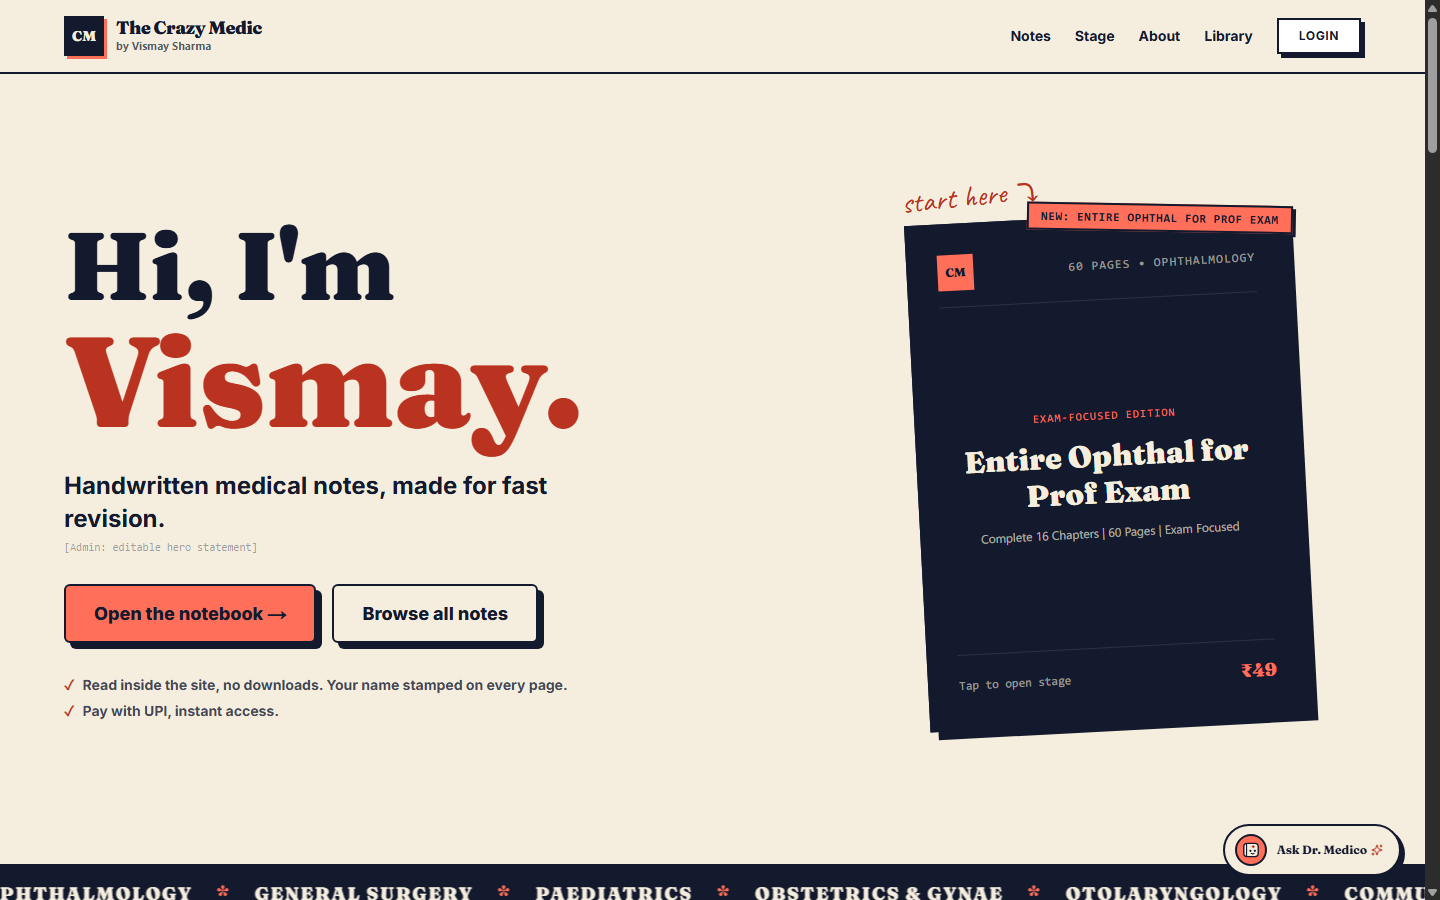
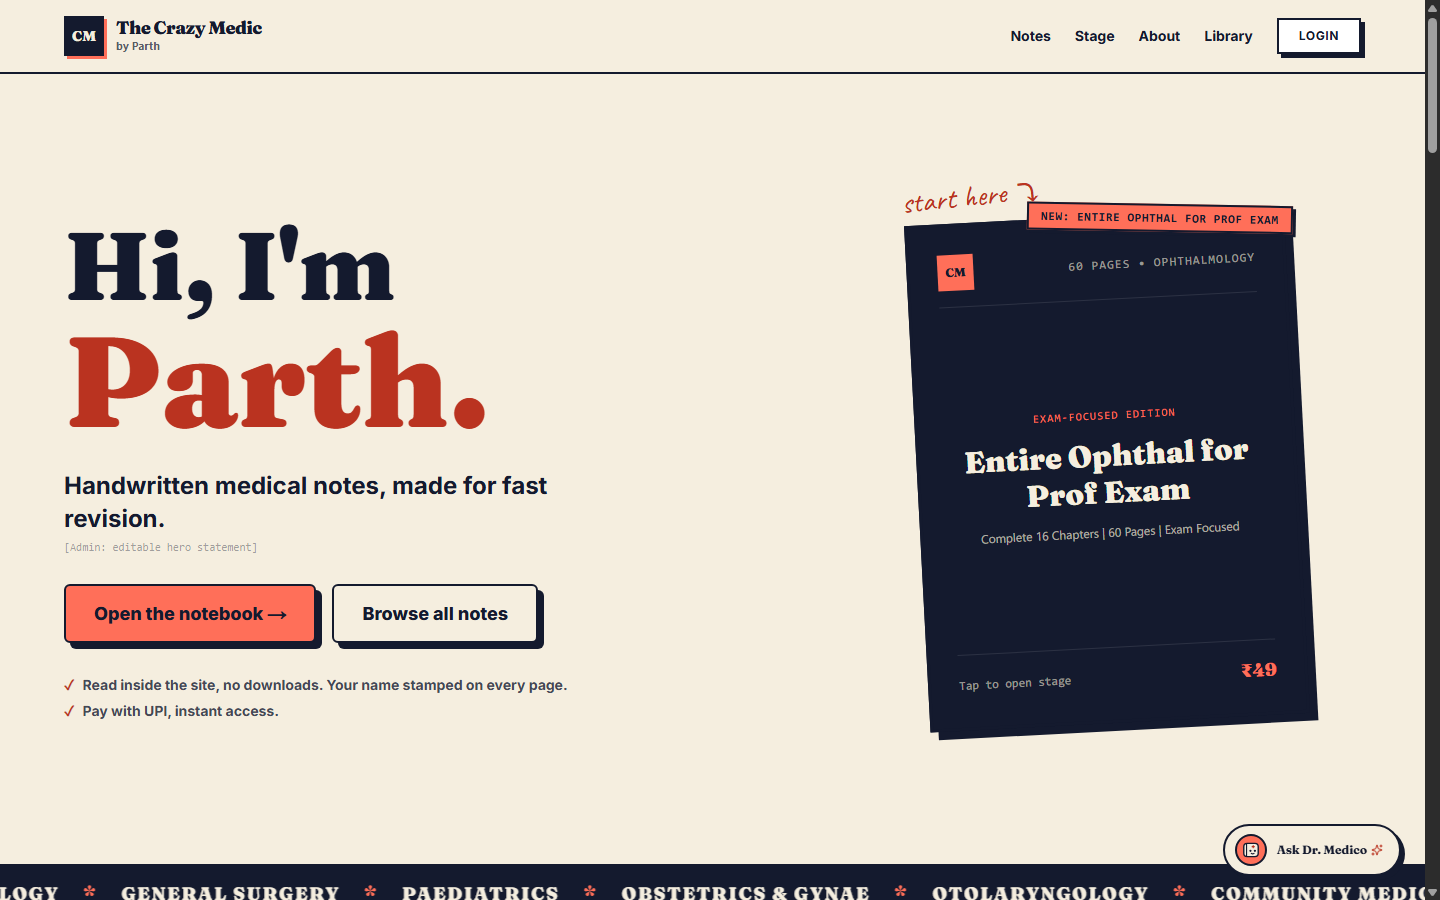
chore: update creator attribution across app, docs, and screenshots to Parth

Changed region(s): [[0.0, 0.9644, 1.0, 1.0], [0.0312, 0.3733, 0.4062, 0.5289], [0.0938, 0.0311, 0.1562, 0.0622]]

diff --git a/src/components/intro/intro-page-client.tsx b/src/components/intro/intro-page-client.tsx
@@ -119,7 +119,7 @@ export function IntroPageClient({ user: serverUser, initialTransition = false }:
                 The Crazy Medic
               </span>
               <span className="text-[11px] font-sans text-[var(--navy)]/70 block -mt-0.5 font-bold">
-                by Vismay Sharma
+                by Parth
               </span>
             </div>
           </Link>
@@ -229,7 +229,7 @@ export function IntroPageClient({ user: serverUser, initialTransition = false }:
                 onClick={() => setMobileMenuOpen(false)}
                 className="hover:text-[var(--coral)] transition"
               >
-                About Vismay
+                About Parth
               </Link>
               <Link
                 href={user ? "/profile" : "/login"}
@@ -241,7 +241,7 @@ export function IntroPageClient({ user: serverUser, initialTransition = false }:
             </div>
 
             <div className="pt-4 border-t-2 border-white/20 text-xs font-mono text-[var(--cream)]/60 flex items-center justify-between">
-              <span>by Vismay Sharma</span>
+              <span>by Parth</span>
               <span>© The Crazy Medic</span>
             </div>
           </motion.div>
@@ -273,7 +273,7 @@ export function IntroPageClient({ user: serverUser, initialTransition = false }:
                       Hi, I&apos;m
                     </span>
                     <span className="font-serif font-black text-6xl sm:text-8xl lg:text-9xl text-[var(--coral-ink)] block mt-1">
-                      Vismay.
+                      Parth.
                     </span>
                   </h1>
                 )}
@@ -623,7 +623,7 @@ export function IntroPageClient({ user: serverUser, initialTransition = false }:
         </Container>
       </section>
 
-      {/* ================= 7. ABOUT VISMAY ================= */}
+      {/* ================= 7. ABOUT PARTH ================= */}
       <section className="py-16 sm:py-24 border-b-2 border-[var(--navy)] bg-[#EADFC9]/30">
         <Container>
           <div className="grid grid-cols-1 lg:grid-cols-12 gap-10 lg:gap-14 items-center">
@@ -635,7 +635,7 @@ export function IntroPageClient({ user: serverUser, initialTransition = false }:
                   <div className="w-16 h-16 rounded-full bg-[var(--coral)] text-[var(--navy)] font-serif font-black text-2xl flex items-center justify-center mb-3">
                     VS
                   </div>
-                  <span className="font-serif font-bold text-lg">Vismay Sharma</span>
+                  <span className="font-serif font-bold text-lg">Parth</span>
                   <span className="text-xs font-mono text-[var(--coral)] mt-1">Creator & Editor</span>
                   <span className="text-[11px] font-mono text-[var(--cream)]/40 mt-3">
                     [Photo uploaded via Admin &gt; Settings]
@@ -651,7 +651,7 @@ export function IntroPageClient({ user: serverUser, initialTransition = false }:
                   The Story
                 </span>
                 <h2 className="font-serif font-black text-3xl sm:text-5xl text-[var(--navy)] tracking-tight">
-                  About Vismay
+                  About Parth
                 </h2>
               </div>
 
@@ -663,7 +663,7 @@ export function IntroPageClient({ user: serverUser, initialTransition = false }:
                   These notes distill complex clinical classifications, surgical steps, and high-yield criteria into concise, memorable handwritten one-pagers.
                 </p>
                 <div className="p-3 bg-white border-2 border-[var(--navy)] text-xs font-mono text-[var(--navy)]/60">
-                  Note: Add Vismay&apos;s full background and story in Admin &gt; Settings.
+                  Note: Add Parth&apos;s full background and story in Admin &gt; Settings.
                 </div>
               </div>
 
@@ -807,7 +807,7 @@ export function IntroPageClient({ user: serverUser, initialTransition = false }:
       <footer className="bg-[#F5EEDF] py-10 border-t-2 border-[var(--navy)] text-xs text-[var(--navy)]/70">
         <Container wide className="flex flex-col sm:flex-row items-center justify-between gap-4 font-mono">
           <div>
-            <span className="font-bold text-[var(--navy)]">The Crazy Medic</span> • by Vismay Sharma
+            <span className="font-bold text-[var(--navy)]">The Crazy Medic</span> • by Parth
           </div>
 
           <div className="flex flex-wrap items-center gap-4 text-xs font-semibold">

diff --git a/src/seed/data.ts b/src/seed/data.ts
@@ -26,7 +26,7 @@ export const SAMPLE_NOTES: SampleNote[] = [
     id: "note-1",
     slug: "entire-ophthalmology-handwritten-notes",
     title: "Entire Ophthal for Prof Exam",
-    creator: "Vismay Sharma",
+    creator: "Parth",
     subject: "Ophthalmology",
     category: "Opthalmology",
     yearTag: "Final Year MBBS",
@@ -68,7 +68,7 @@ These **60 pages of crisp handwritten high-yield notes** are specifically organi
     id: "note-2",
     slug: "general-surgery-rapid-revision",
     title: "Your Surgery Handwritten Notes",
-    creator: "Vismay Sharma",
+    creator: "Parth",
     subject: "Surgery",
     category: "Pathology",
     yearTag: "Final Year MBBS",
@@ -100,7 +100,7 @@ These **60 pages of crisp handwritten high-yield notes** are specifically organi
     id: "note-3",
     slug: "paediatrics-60-minute-revision-booklet",
     title: "Paediatrics Revision Booklet",
-    creator: "Vismay Sharma",
+    creator: "Parth",
     subject: "Pediatrics",
     category: "Physiology",
     yearTag: "Final Year MBBS",
@@ -130,7 +130,7 @@ These **60 pages of crisp handwritten high-yield notes** are specifically organi
     id: "note-4",
     slug: "obstetrics-and-gynaecology-core-revision",
     title: "Gynaecology & Obstetrics Booklet",
-    creator: "Vismay Sharma",
+    creator: "Parth",
     subject: "OBGYN",
     category: "Anatomy",
     yearTag: "Final Year MBBS",
@@ -160,7 +160,7 @@ These **60 pages of crisp handwritten high-yield notes** are specifically organi
     id: "note-5",
     slug: "ent-high-yield-one-posters",
     title: "ENT Subject Revision Booklet",
-    creator: "Vismay Sharma",
+    creator: "Parth",
     subject: "ENT",
     category: "Anatomy",
     yearTag: "3rd Year MBBS",
@@ -190,7 +190,7 @@ These **60 pages of crisp handwritten high-yield notes** are specifically organi
     id: "note-6",
     slug: "community-medicine-psm-mastery",
     title: "Entire PSM Revision Booklet",
-    creator: "Vismay Sharma",
+    creator: "Parth",
     subject: "PSM",
     category: "Pathology",
     yearTag: "3rd Year MBBS",

diff --git a/src/components/notebook/notebook-data.ts b/src/components/notebook/notebook-data.ts
@@ -52,7 +52,7 @@ export const MOCK_NOTEBOOKS: NotebookItem[] = [
     id: "nb-1",
     slug: "entire-ophthalmology-notes",
     title: "Entire Ophthal for Prof Exam",
-    creator: "Vismay Sharma",
+    creator: "Parth",
     subject: "Ophthalmology",
     pageCount: 60,
     spreadCount: 4,
@@ -188,7 +188,7 @@ export const MOCK_NOTEBOOKS: NotebookItem[] = [
     id: "nb-2",
     slug: "general-surgery-handwritten",
     title: "Your Surgery Handwritten Notes",
-    creator: "Vismay Sharma",
+    creator: "Parth",
     subject: "General Surgery",
     pageCount: 110,
     spreadCount: 5,
@@ -267,7 +267,7 @@ export const MOCK_NOTEBOOKS: NotebookItem[] = [
     id: "nb-3",
     slug: "paediatrics-revision-booklet",
     title: "Paediatrics Revision Booklet",
-    creator: "Vismay Sharma",
+    creator: "Parth",
     subject: "Paediatrics",
     pageCount: 45,
     spreadCount: 3,
@@ -329,7 +329,7 @@ export const MOCK_NOTEBOOKS: NotebookItem[] = [
     id: "nb-4",
     slug: "gynaecology-and-obstetrics",
     title: "Your GYNAECOLOGY + OBSTETRICS Revision Booklet",
-    creator: "Vismay Sharma",
+    creator: "Parth",
     subject: "Obstetrics & Gynae",
     pageCount: 52,
     spreadCount: 3,
@@ -375,7 +375,7 @@ export const MOCK_NOTEBOOKS: NotebookItem[] = [
     id: "nb-5",
     slug: "ent-revision-one-posters",
     title: "Your ENT Subject Revision Booklet",
-    creator: "Vismay Sharma",
+    creator: "Parth",
     subject: "Otolaryngology",
     pageCount: 38,
     spreadCount: 3,
@@ -421,7 +421,7 @@ export const MOCK_NOTEBOOKS: NotebookItem[] = [
     id: "nb-6",
     slug: "entire-psm-revision-booklet",
     title: "Entire PSM Revision Booklet",
-    creator: "Vismay Sharma",
+    creator: "Parth",
     subject: "Community Medicine",
     pageCount: 49,
     spreadCount: 3,

diff --git a/src/components/layout/header.tsx b/src/components/layout/header.tsx
@@ -25,7 +25,7 @@ export function CreatorPill() {
               <span className="text-xs font-bold text-gray-900 dark:text-gray-100 tracking-tight">The Crazy Medic</span>
               <span className="text-[10px] bg-[#E8443A]/10 text-[#E8443A] font-semibold px-1.5 py-0.2 rounded-full">Doc</span>
             </div>
-            <span className="text-[10px] text-gray-500 dark:text-gray-400 font-medium">by Vismay Sharma</span>
+            <span className="text-[10px] text-gray-500 dark:text-gray-400 font-medium">by Parth</span>
           </div>
 
           <div className="ml-2 pl-2 border-l border-gray-200 dark:border-gray-700 hidden sm:flex items-center gap-1.5 text-xs text-gray-500">
@@ -52,7 +52,7 @@ export function CreatorPill() {
                 </div>
               </div>
               <div>
-                <h3 className="font-display font-bold text-xl text-gray-900 dark:text-gray-50">Vismay Sharma</h3>
+                <h3 className="font-display font-bold text-xl text-gray-900 dark:text-gray-50">Parth</h3>
                 <p className="text-sm text-[#E8443A] font-medium">The Crazy Medic • Med Educator</p>
               </div>
             </div>
@@ -110,7 +110,7 @@ export function Header() {
             <span className="font-display font-bold text-base leading-none text-gray-900 dark:text-white">
               The Crazy Medic
             </span>
-            <span className="text-[10px] text-gray-500 dark:text-gray-400 font-medium">by Vismay Sharma</span>
+            <span className="text-[10px] text-gray-500 dark:text-gray-400 font-medium">by Parth</span>
           </div>
         </Link>
 

diff --git a/src/components/notebook/sheet-drawer.tsx b/src/components/notebook/sheet-drawer.tsx
@@ -411,7 +411,7 @@ export function SheetDrawer({ type, item, onClose, onOpenBuy }: SheetDrawerProps
           {type === "about" && (
             <div className="space-y-4 text-sm">
               <p>
-                &ldquo;The Crazy Medic&rdquo; is curated by <strong className="text-[var(--coral)]">Vismay Sharma</strong>.
+                &ldquo;The Crazy Medic&rdquo; is curated by <strong className="text-[var(--coral)]">Parth</strong>.
               </p>
               <p>
                 Born out of the frustration with 800-page medical textbooks, these notes synthesize high-yield criteria, clinical flowcharts, and memory anchors directly tailored for distinction in university examinations.
@@ -525,7 +525,7 @@ export function SheetDrawer({ type, item, onClose, onOpenBuy }: SheetDrawerProps
                 onClick={onClose}
                 className="block py-2.5 border-b border-white/10 hover:text-[var(--coral)]"
               >
-                About Vismay Sharma
+                About Parth
               </Link>
               <Link
                 href="/terms"
@@ -548,7 +548,7 @@ export function SheetDrawer({ type, item, onClose, onOpenBuy }: SheetDrawerProps
         {/* Bottom subtle note */}
         <div className="pt-4 border-t border-white/10 text-xs text-[var(--cream)]/50 flex items-center justify-between font-mono">
           <span>The Crazy Medic</span>
-          <span>by Vismay Sharma</span>
+          <span>by Parth</span>
         </div>
       </div>
     </div>

diff --git a/src/components/layout/footer.tsx b/src/components/layout/footer.tsx
@@ -67,7 +67,7 @@ export function Footer() {
               </div>
               <h3 className="font-display font-bold text-xl tracking-tight">The Crazy Medic</h3>
             </div>
-            <p className="text-xs text-gray-400 font-medium mb-3">Created with precision by Vismay Sharma</p>
+            <p className="text-xs text-gray-400 font-medium mb-3">Created with precision by Parth</p>
             <p className="text-sm text-gray-300 max-w-md leading-relaxed mb-4">
               Making medical & biology concepts ridiculously visual and easy to remember. Tailored specifically for MBBS, NEET, Nursing and allied healthcare examinations.
             </p>
@@ -114,7 +114,7 @@ export function Footer() {
         </div>
 
         <div className="pt-6 border-t border-gray-800 flex flex-col sm:flex-row items-center justify-between text-xs text-gray-500 gap-3">
-          <p>© 2026 The Crazy Medic (Vismay Sharma). All rights reserved.</p>
+          <p>© 2026 The Crazy Medic (Parth). All rights reserved.</p>
           <p>Protected digital goods stamped with dynamic purchaser watermarks.</p>
         </div>
       </div>

diff --git a/src/app/(public)/about/page.tsx b/src/app/(public)/about/page.tsx
@@ -22,12 +22,12 @@ export default function AboutPage() {
           About The Creator
         </span>
         <h1 className="font-serif font-bold text-3xl sm:text-4xl text-[var(--coral)] mb-6">
-          Vismay Sharma
+          Parth
         </h1>
 
         <div className="space-y-5 text-sm sm:text-base leading-relaxed text-[var(--navy)]/80">
           <p>
-            Hi! I&apos;m Vismay Sharma, the creator behind <strong>The Crazy Medic</strong>.
+            Hi! I&apos;m Parth, the creator behind <strong>The Crazy Medic</strong>.
           </p>
           <p>
             Medical school is notorious for massive 800-page textbooks like Bailey & Love, Robbins, and Khurana. When exams hit, what you actually need isn&apos;t endless blocks of dense text—it&apos;s high-yield decision trees, memory hooks, and reproducible hand-drawn diagrams that you can sketch in a 10-mark university question.

diff --git a/src/app/page.tsx b/src/app/page.tsx
@@ -4,11 +4,11 @@ import { auth } from "@/lib/auth";
 import { IntroPageClient } from "@/components/intro/intro-page-client";
 
 export const metadata: Metadata = {
-  title: "The Crazy Medic — by Vismay Sharma | Handwritten Medical Notes",
+  title: "The Crazy Medic — by Parth | Handwritten Medical Notes",
   description:
-    "Handwritten revision summaries covering high-yield MBBS university exams. Ophthalmology, Surgery, Paediatrics, OBGYN, ENT and PSM by Vismay Sharma.",
+    "Handwritten revision summaries covering high-yield MBBS university exams. Ophthalmology, Surgery, Paediatrics, OBGYN, ENT and PSM by Parth.",
   openGraph: {
-    title: "The Crazy Medic — by Vismay Sharma",
+    title: "The Crazy Medic — by Parth",
     description:
       "Handwritten medical notes built for fast revision in university prof exams.",
     type: "website",

diff --git a/src/app/stage/page.tsx b/src/app/stage/page.tsx
@@ -56,7 +56,7 @@ export default function StagePage() {
       try {
         await navigator.share({
           title: `${currentItem.title} — The Crazy Medic`,
-          text: `Check out ${currentItem.title} by Vismay Sharma`,
+          text: `Check out ${currentItem.title} by Parth`,
           url: window.location.href,
         });
       } catch (err) {}
@@ -106,7 +106,7 @@ export default function StagePage() {
             className="text-left hidden sm:block cursor-pointer hover:opacity-80 transition"
           >
             <span className="font-serif font-bold text-sm block leading-none">The Crazy Medic</span>
-            <span className="text-[10px] text-[var(--cream)]/60 font-mono">by Vismay Sharma</span>
+            <span className="text-[10px] text-[var(--cream)]/60 font-mono">by Parth</span>
           </button>
         </div>
 

diff --git a/src/app/(public)/terms/page.tsx b/src/app/(public)/terms/page.tsx
@@ -10,7 +10,7 @@ export default function TermsPage() {
         <section>
           <h2 className="font-bold text-base text-gray-900 dark:text-white mb-2">1. Educational Disclaimer</h2>
           <p>
-            &ldquo;The Crazy Medic&rdquo; by Vismay Sharma provides digital study notes and visual summaries designed exclusively for academic and medical examination preparation. The materials provided do not constitute clinical guidance, official medical diagnosis, or treatment protocols.
+            &ldquo;The Crazy Medic&rdquo; by Parth provides digital study notes and visual summaries designed exclusively for academic and medical examination preparation. The materials provided do not constitute clinical guidance, official medical diagnosis, or treatment protocols.
           </p>
         </section>
 

diff --git a/src/app/(public)/payment/page.tsx b/src/app/(public)/payment/page.tsx
@@ -164,7 +164,7 @@ function PaymentDemoContent() {
               <div className="pt-6 border-t border-[#E2D8C3] flex flex-wrap items-center justify-center gap-6 text-xs font-mono text-[var(--navy)]/60">
                 <div className="flex items-center gap-1.5">
                   <ShieldCheck className="w-4 h-4 text-[var(--coral)]" />
-                  <span>Verified Creator: Vismay Sharma</span>
+                  <span>Verified Creator: Parth</span>
                 </div>
                 <div className="flex items-center gap-1.5">
                   <CheckCircle2 className="w-4 h-4 text-emerald-600" />

diff --git a/src/app/api/chat/route.ts b/src/app/api/chat/route.ts
@@ -43,7 +43,7 @@ export async function POST(req: NextRequest) {
       // Fallback safely to MOCK_NOTEBOOKS
     }
 
-    const systemPrompt = `You are "Dr. Medico", the cute, concise, high-yield AI study mascot for "The Crazy Medic" by Vismay Sharma.
+    const systemPrompt = `You are "Dr. Medico", the cute, concise, high-yield AI study mascot for "The Crazy Medic" by Parth.
 Rules you MUST ALWAYS obey:
 1. You help MBBS & medical students with high-yield concepts, mnemonics, exam tips, and finding the right notes.
 2. When recommending notes, ONLY recommend notes from this exact catalog:
